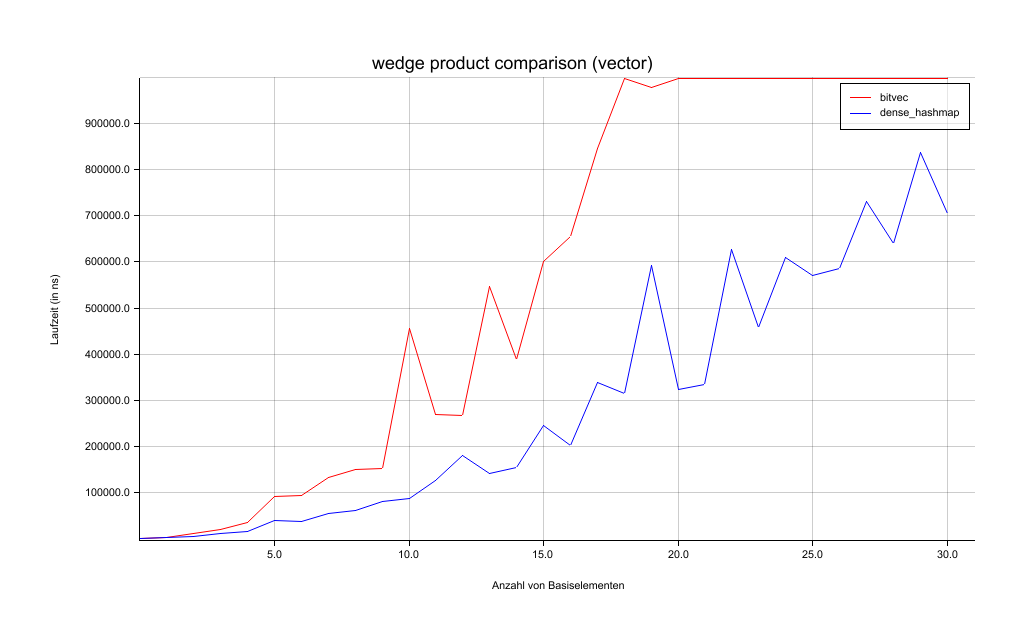
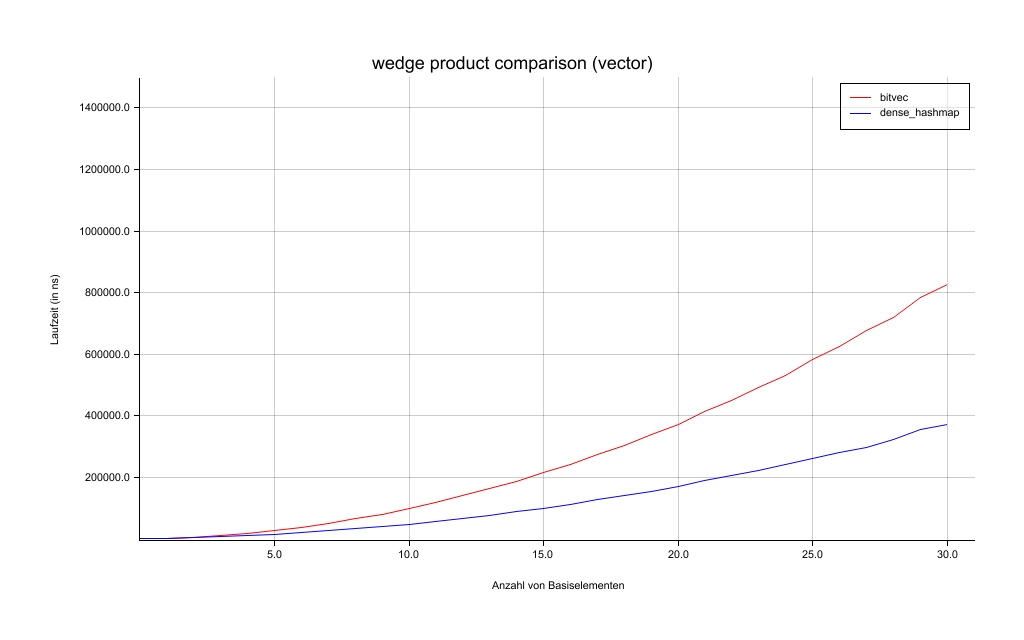
fix warnings

diff --git a/benches/convergence.rs b/benches/convergence.rs
@@ -16,6 +16,7 @@ fn bench_convergence_t_test(num_iter: u64, g: Graph) -> Vec<Vec<f64>> {
     all_values
 }
 
+#[allow(dead_code)]
 fn bench_convergence_naive(num_iter: u64, g: Graph) -> Vec<Vec<f64>> {
     let mut all_values = vec![];
 
@@ -29,6 +30,7 @@ fn bench_convergence_naive(num_iter: u64, g: Graph) -> Vec<Vec<f64>> {
     all_values
 }
 
+#[allow(dead_code)]
 fn bench_convergence_std_dev(num_iter: u64, g: Graph) -> Vec<Vec<f64>> {
     let mut all_values = vec![];
 
@@ -42,6 +44,7 @@ fn bench_convergence_std_dev(num_iter: u64, g: Graph) -> Vec<Vec<f64>> {
     all_values
 }
 
+#[allow(dead_code)]
 fn bench_std_dev(num_iter: u64, g: Graph) -> Vec<Vec<f64>> {
     let mut all_values = vec![];
 

diff --git a/benches/algorithm.rs b/benches/algorithm.rs
@@ -90,10 +90,10 @@ fn iterations_eps(num_iter: u64, g: Graph) -> Vec<Vec<f64>> {
 
 fn main() {
     let g_rand = utils::rand_graph(200, 0.5);
-    let num_iterations_rand = count_iterations(1, g_rand);
+    let _num_iterations_rand = count_iterations(1, g_rand);
 
     let g_arenas_jazz = Graph::from_tsv("src/data/out.arenas-jazz");
-    let num_iterations_arenas = count_iterations(1, g_arenas_jazz.clone());
+    let _num_iterations_arenas = count_iterations(1, g_arenas_jazz.clone());
 
     /*
     let result = vec![

diff --git a/benches/wedge_product.rs b/benches/wedge_product.rs
@@ -80,7 +80,7 @@ fn main() {
         "wedge product comparison (vector)",
         (
             ("Anzahl von Basiselementen", 0f32..31f32),
-            ("Laufzeit (in ns)", 0f32..1000000f32),
+            ("Laufzeit (in ns)", 0f32..1500000f32),
         ),
         0,
         "benches/output/wedge_prod",

diff --git a/src/algorithm/mod.rs b/src/algorithm/mod.rs
@@ -557,7 +557,7 @@ mod tests {
             ],
         );
         let k = 4;
-        let eps = 0.3;
+        let eps = 0.5;
         let res = algorithm::c(g, k, eps);
         let expect = 8.0;
         let lower_bound = (1. - eps) * expect;
